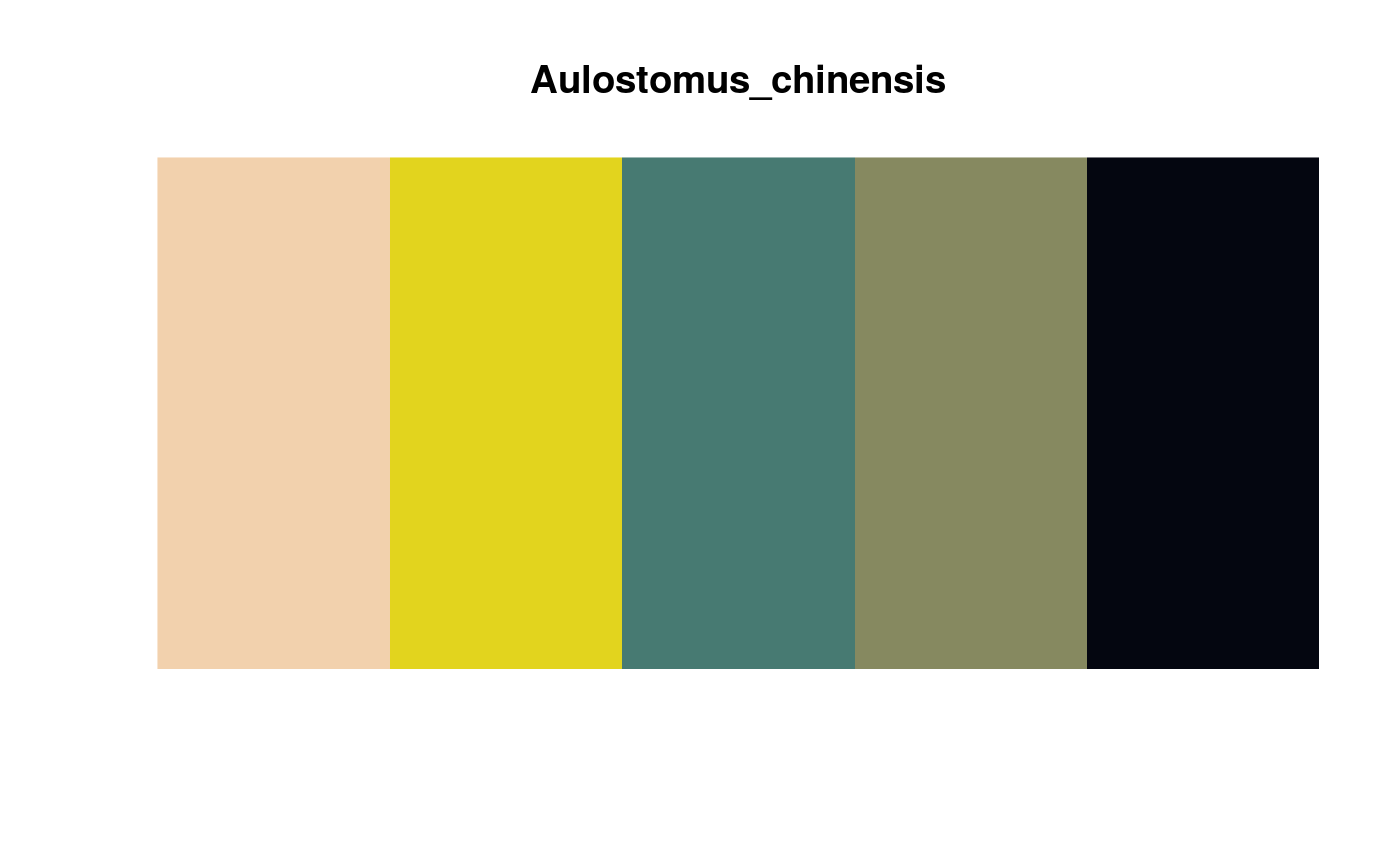
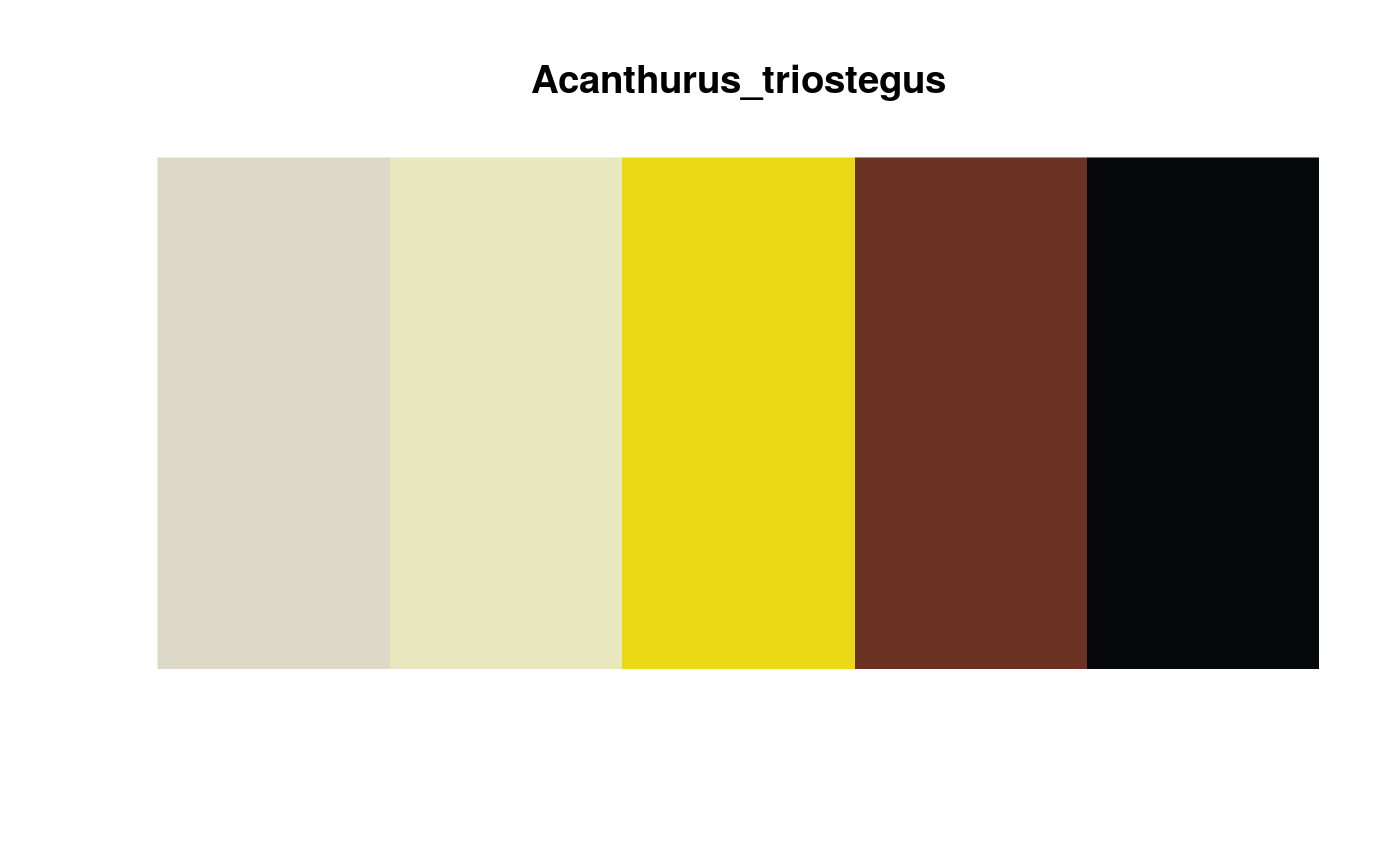
update site

diff --git a/docs/index.html b/docs/index.html
@@ -80,6 +80,8 @@
 
     
     
+
+<p><img src="reference/figures/fishualize_logo.pdf" width="120" alt="fishflux logo"></p>
 <p><code>fishualize</code> allows you to implement the color pattern or your favourite fish for all you graphs.</p>
 <div id="installation" class="section level2">
 <h2 class="hasAnchor">
@@ -91,7 +93,7 @@
 <div id="introduction" class="section level1">
 <div class="page-header"><h1 class="hasAnchor">
 <a href="#introduction" class="anchor"></a>Introduction</h1></div>
-<p>The <a href="http:://github.com/nschiett/fishualize"><strong>fishualize</strong></a> package provides colour scales created by Nina Schiettekatte, Jordan Casey and Simon Brandl.</p>
+<p>The <a href="http:://github.com/nschiett/fishualize"><strong>fishualize</strong></a> package provides colour scales based on the natural colors of fishes.</p>
 </div>
 <div id="the-colour-scales" class="section level1">
 <h1 class="hasAnchor">
@@ -154,57 +156,28 @@
 <a class="sourceLine" id="cb9-12" data-line-number="12">state_df &lt;-<span class="st"> </span><span class="kw"><a href="https://ggplot2.tidyverse.org/reference/map_data.html">map_data</a></span>(<span class="st">"state"</span>, <span class="dt">projection =</span> <span class="st">"albers"</span>, <span class="dt">parameters =</span> <span class="kw"><a href="https://www.rdocumentation.org/packages/base/topics/c">c</a></span>(<span class="dv">39</span>, <span class="dv">45</span>))</a>
 <a class="sourceLine" id="cb9-13" data-line-number="13">choropleth &lt;-<span class="st"> </span><span class="kw"><a href="https://www.rdocumentation.org/packages/base/topics/merge">merge</a></span>(county_df, unemp, <span class="dt">by =</span> <span class="kw"><a href="https://www.rdocumentation.org/packages/base/topics/c">c</a></span>(<span class="st">"state"</span>, <span class="st">"county"</span>))</a>
 <a class="sourceLine" id="cb9-14" data-line-number="14">choropleth &lt;-<span class="st"> </span>choropleth[<span class="kw"><a href="https://www.rdocumentation.org/packages/base/topics/order">order</a></span>(choropleth<span class="op">$</span>order), ]</a>
-<a class="sourceLine" id="cb9-15" data-line-number="15"><span class="kw"><a href="https://ggplot2.tidyverse.org/reference/ggplot.html">ggplot</a></span>(choropleth, <span class="kw"><a href="https://ggplot2.tidyverse.org/reference/aes.html">aes</a></span>(long, lat, <span class="dt">group =</span> group)) <span class="op">+</span></a>
-<a class="sourceLine" id="cb9-16" data-line-number="16"><span class="st">  </span><span class="kw"><a href="https://ggplot2.tidyverse.org/reference/geom_polygon.html">geom_polygon</a></span>(<span class="kw"><a href="https://ggplot2.tidyverse.org/reference/aes.html">aes</a></span>(<span class="dt">fill =</span> rate), <span class="dt">colour =</span> <span class="kw"><a href="https://ggplot2.tidyverse.org/reference/reexports.html">alpha</a></span>(<span class="st">"white"</span>, <span class="dv">1</span> <span class="op">/</span><span class="st"> </span><span class="dv">2</span>), <span class="dt">size =</span> <span class="fl">0.2</span>) <span class="op">+</span></a>
-<a class="sourceLine" id="cb9-17" data-line-number="17"><span class="st">  </span><span class="kw"><a href="https://ggplot2.tidyverse.org/reference/geom_polygon.html">geom_polygon</a></span>(<span class="dt">data =</span> state_df, <span class="dt">colour =</span> <span class="st">"white"</span>, <span class="dt">fill =</span> <span class="ot">NA</span>) <span class="op">+</span></a>
-<a class="sourceLine" id="cb9-18" data-line-number="18"><span class="st">  </span><span class="kw"><a href="https://ggplot2.tidyverse.org/reference/coord_fixed.html">coord_fixed</a></span>() <span class="op">+</span></a>
-<a class="sourceLine" id="cb9-19" data-line-number="19"><span class="st">  </span><span class="kw"><a href="https://ggplot2.tidyverse.org/reference/ggtheme.html">theme_minimal</a></span>() <span class="op">+</span></a>
-<a class="sourceLine" id="cb9-20" data-line-number="20"><span class="st">  </span><span class="kw"><a href="https://ggplot2.tidyverse.org/reference/labs.html">ggtitle</a></span>(<span class="st">"US unemployment rate by county"</span>) <span class="op">+</span></a>
-<a class="sourceLine" id="cb9-21" data-line-number="21"><span class="st">  </span><span class="kw"><a href="https://ggplot2.tidyverse.org/reference/theme.html">theme</a></span>(<span class="dt">axis.line =</span> <span class="kw"><a href="https://ggplot2.tidyverse.org/reference/element.html">element_blank</a></span>(), <span class="dt">axis.text =</span> <span class="kw"><a href="https://ggplot2.tidyverse.org/reference/element.html">element_blank</a></span>(),</a>
-<a class="sourceLine" id="cb9-22" data-line-number="22">        <span class="dt">axis.ticks =</span> <span class="kw"><a href="https://ggplot2.tidyverse.org/reference/element.html">element_blank</a></span>(), <span class="dt">axis.title =</span> <span class="kw"><a href="https://ggplot2.tidyverse.org/reference/element.html">element_blank</a></span>()) <span class="op">+</span></a>
-<a class="sourceLine" id="cb9-23" data-line-number="23"><span class="st">  </span><span class="kw"><a href="reference/scale_fish.html">scale_fill_fish</a></span>(<span class="dt">option=</span><span class="st">"Ostracion_cubicus"</span>)</a></code></pre></div>
+<a class="sourceLine" id="cb9-15" data-line-number="15"></a>
+<a class="sourceLine" id="cb9-16" data-line-number="16"><span class="kw"><a href="https://ggplot2.tidyverse.org/reference/ggplot.html">ggplot</a></span>(choropleth, <span class="kw"><a href="https://ggplot2.tidyverse.org/reference/aes.html">aes</a></span>(long, lat, <span class="dt">group =</span> group)) <span class="op">+</span></a>
+<a class="sourceLine" id="cb9-17" data-line-number="17"><span class="st">  </span><span class="kw"><a href="https://ggplot2.tidyverse.org/reference/geom_polygon.html">geom_polygon</a></span>(<span class="kw"><a href="https://ggplot2.tidyverse.org/reference/aes.html">aes</a></span>(<span class="dt">fill =</span> rate), <span class="dt">colour =</span> <span class="kw"><a href="https://ggplot2.tidyverse.org/reference/reexports.html">alpha</a></span>(<span class="st">"white"</span>, <span class="dv">1</span> <span class="op">/</span><span class="st"> </span><span class="dv">2</span>), <span class="dt">size =</span> <span class="fl">0.2</span>) <span class="op">+</span></a>
+<a class="sourceLine" id="cb9-18" data-line-number="18"><span class="st">  </span><span class="kw"><a href="https://ggplot2.tidyverse.org/reference/geom_polygon.html">geom_polygon</a></span>(<span class="dt">data =</span> state_df, <span class="dt">colour =</span> <span class="st">"white"</span>, <span class="dt">fill =</span> <span class="ot">NA</span>) <span class="op">+</span></a>
+<a class="sourceLine" id="cb9-19" data-line-number="19"><span class="st">  </span><span class="kw"><a href="https://ggplot2.tidyverse.org/reference/coord_fixed.html">coord_fixed</a></span>() <span class="op">+</span></a>
+<a class="sourceLine" id="cb9-20" data-line-number="20"><span class="st">  </span><span class="kw"><a href="https://ggplot2.tidyverse.org/reference/ggtheme.html">theme_minimal</a></span>() <span class="op">+</span></a>
+<a class="sourceLine" id="cb9-21" data-line-number="21"><span class="st">  </span><span class="kw"><a href="https://ggplot2.tidyverse.org/reference/labs.html">ggtitle</a></span>(<span class="st">"US unemployment rate by county"</span>) <span class="op">+</span></a>
+<a class="sourceLine" id="cb9-22" data-line-number="22"><span class="st">  </span><span class="kw"><a href="https://ggplot2.tidyverse.org/reference/theme.html">theme</a></span>(<span class="dt">axis.line =</span> <span class="kw"><a href="https://ggplot2.tidyverse.org/reference/element.html">element_blank</a></span>(), <span class="dt">axis.text =</span> <span class="kw"><a href="https://ggplot2.tidyverse.org/reference/element.html">element_blank</a></span>(),</a>
+<a class="sourceLine" id="cb9-23" data-line-number="23">        <span class="dt">axis.ticks =</span> <span class="kw"><a href="https://ggplot2.tidyverse.org/reference/element.html">element_blank</a></span>(), <span class="dt">axis.title =</span> <span class="kw"><a href="https://ggplot2.tidyverse.org/reference/element.html">element_blank</a></span>()) <span class="op">+</span></a>
+<a class="sourceLine" id="cb9-24" data-line-number="24"><span class="st">  </span><span class="kw"><a href="reference/scale_fish.html">scale_fill_fish</a></span>(<span class="dt">option =</span> <span class="st">"Zebrasoma_velifer"</span>)</a></code></pre></div>
 <p><img src="index_files/figure-html/ggplot2-1.png" width="672"></p>
-<div class="sourceCode" id="cb10"><pre class="sourceCode r"><code class="sourceCode r"><a class="sourceLine" id="cb10-1" data-line-number="1"><span class="kw"><a href="https://ggplot2.tidyverse.org/reference/ggplot.html">ggplot</a></span>(choropleth, <span class="kw"><a href="https://ggplot2.tidyverse.org/reference/aes.html">aes</a></span>(long, lat, <span class="dt">group =</span> group)) <span class="op">+</span></a>
-<a class="sourceLine" id="cb10-2" data-line-number="2"><span class="st">  </span><span class="kw"><a href="https://ggplot2.tidyverse.org/reference/geom_polygon.html">geom_polygon</a></span>(<span class="kw"><a href="https://ggplot2.tidyverse.org/reference/aes.html">aes</a></span>(<span class="dt">fill =</span> rate), <span class="dt">colour =</span> <span class="kw"><a href="https://ggplot2.tidyverse.org/reference/reexports.html">alpha</a></span>(<span class="st">"white"</span>, <span class="dv">1</span> <span class="op">/</span><span class="st"> </span><span class="dv">2</span>), <span class="dt">size =</span> <span class="fl">0.2</span>) <span class="op">+</span></a>
-<a class="sourceLine" id="cb10-3" data-line-number="3"><span class="st">  </span><span class="kw"><a href="https://ggplot2.tidyverse.org/reference/geom_polygon.html">geom_polygon</a></span>(<span class="dt">data =</span> state_df, <span class="dt">colour =</span> <span class="st">"white"</span>, <span class="dt">fill =</span> <span class="ot">NA</span>) <span class="op">+</span></a>
-<a class="sourceLine" id="cb10-4" data-line-number="4"><span class="st">  </span><span class="kw"><a href="https://ggplot2.tidyverse.org/reference/coord_fixed.html">coord_fixed</a></span>() <span class="op">+</span></a>
-<a class="sourceLine" id="cb10-5" data-line-number="5"><span class="st">  </span><span class="kw"><a href="https://ggplot2.tidyverse.org/reference/ggtheme.html">theme_minimal</a></span>() <span class="op">+</span></a>
-<a class="sourceLine" id="cb10-6" data-line-number="6"><span class="st">  </span><span class="kw"><a href="https://ggplot2.tidyverse.org/reference/labs.html">ggtitle</a></span>(<span class="st">"US unemployment rate by county"</span>) <span class="op">+</span></a>
-<a class="sourceLine" id="cb10-7" data-line-number="7"><span class="st">  </span><span class="kw"><a href="https://ggplot2.tidyverse.org/reference/theme.html">theme</a></span>(<span class="dt">axis.line =</span> <span class="kw"><a href="https://ggplot2.tidyverse.org/reference/element.html">element_blank</a></span>(), <span class="dt">axis.text =</span> <span class="kw"><a href="https://ggplot2.tidyverse.org/reference/element.html">element_blank</a></span>(),</a>
-<a class="sourceLine" id="cb10-8" data-line-number="8">        <span class="dt">axis.ticks =</span> <span class="kw"><a href="https://ggplot2.tidyverse.org/reference/element.html">element_blank</a></span>(), <span class="dt">axis.title =</span> <span class="kw"><a href="https://ggplot2.tidyverse.org/reference/element.html">element_blank</a></span>()) <span class="op">+</span></a>
-<a class="sourceLine" id="cb10-9" data-line-number="9"><span class="st">  </span><span class="kw"><a href="reference/scale_fish.html">scale_fill_fish</a></span>(<span class="dt">option =</span> <span class="st">"Trimma_lantana"</span>)</a></code></pre></div>
-<p><img src="index_files/figure-html/ggplot2-2.png" width="672"></p>
-<div class="sourceCode" id="cb11"><pre class="sourceCode r"><code class="sourceCode r"><a class="sourceLine" id="cb11-1" data-line-number="1"><span class="kw"><a href="https://ggplot2.tidyverse.org/reference/ggplot.html">ggplot</a></span>(choropleth, <span class="kw"><a href="https://ggplot2.tidyverse.org/reference/aes.html">aes</a></span>(long, lat, <span class="dt">group =</span> group)) <span class="op">+</span></a>
-<a class="sourceLine" id="cb11-2" data-line-number="2"><span class="st">  </span><span class="kw"><a href="https://ggplot2.tidyverse.org/reference/geom_polygon.html">geom_polygon</a></span>(<span class="kw"><a href="https://ggplot2.tidyverse.org/reference/aes.html">aes</a></span>(<span class="dt">fill =</span> rate), <span class="dt">colour =</span> <span class="kw"><a href="https://ggplot2.tidyverse.org/reference/reexports.html">alpha</a></span>(<span class="st">"white"</span>, <span class="dv">1</span> <span class="op">/</span><span class="st"> </span><span class="dv">2</span>), <span class="dt">size =</span> <span class="fl">0.2</span>) <span class="op">+</span></a>
-<a class="sourceLine" id="cb11-3" data-line-number="3"><span class="st">  </span><span class="kw"><a href="https://ggplot2.tidyverse.org/reference/geom_polygon.html">geom_polygon</a></span>(<span class="dt">data =</span> state_df, <span class="dt">colour =</span> <span class="st">"white"</span>, <span class="dt">fill =</span> <span class="ot">NA</span>) <span class="op">+</span></a>
-<a class="sourceLine" id="cb11-4" data-line-number="4"><span class="st">  </span><span class="kw"><a href="https://ggplot2.tidyverse.org/reference/coord_fixed.html">coord_fixed</a></span>() <span class="op">+</span></a>
-<a class="sourceLine" id="cb11-5" data-line-number="5"><span class="st">  </span><span class="kw"><a href="https://ggplot2.tidyverse.org/reference/ggtheme.html">theme_minimal</a></span>() <span class="op">+</span></a>
-<a class="sourceLine" id="cb11-6" data-line-number="6"><span class="st">  </span><span class="kw"><a href="https://ggplot2.tidyverse.org/reference/labs.html">ggtitle</a></span>(<span class="st">"US unemployment rate by county"</span>) <span class="op">+</span></a>
-<a class="sourceLine" id="cb11-7" data-line-number="7"><span class="st">  </span><span class="kw"><a href="https://ggplot2.tidyverse.org/reference/theme.html">theme</a></span>(<span class="dt">axis.line =</span> <span class="kw"><a href="https://ggplot2.tidyverse.org/reference/element.html">element_blank</a></span>(), <span class="dt">axis.text =</span> <span class="kw"><a href="https://ggplot2.tidyverse.org/reference/element.html">element_blank</a></span>(),</a>
-<a class="sourceLine" id="cb11-8" data-line-number="8">        <span class="dt">axis.ticks =</span> <span class="kw"><a href="https://ggplot2.tidyverse.org/reference/element.html">element_blank</a></span>(), <span class="dt">axis.title =</span> <span class="kw"><a href="https://ggplot2.tidyverse.org/reference/element.html">element_blank</a></span>()) <span class="op">+</span></a>
-<a class="sourceLine" id="cb11-9" data-line-number="9"><span class="st">  </span><span class="kw"><a href="reference/scale_fish.html">scale_fill_fish</a></span>(<span class="dt">option =</span> <span class="st">"Zebrasoma_velifer"</span>)</a></code></pre></div>
-<p><img src="index_files/figure-html/ggplot2-3.png" width="672"></p>
-<div class="sourceCode" id="cb12"><pre class="sourceCode r"><code class="sourceCode r"><a class="sourceLine" id="cb12-1" data-line-number="1"><span class="kw"><a href="https://ggplot2.tidyverse.org/reference/ggplot.html">ggplot</a></span>(choropleth, <span class="kw"><a href="https://ggplot2.tidyverse.org/reference/aes.html">aes</a></span>(long, lat, <span class="dt">group =</span> group)) <span class="op">+</span></a>
-<a class="sourceLine" id="cb12-2" data-line-number="2"><span class="st">  </span><span class="kw"><a href="https://ggplot2.tidyverse.org/reference/geom_polygon.html">geom_polygon</a></span>(<span class="kw"><a href="https://ggplot2.tidyverse.org/reference/aes.html">aes</a></span>(<span class="dt">fill =</span> rate), <span class="dt">colour =</span> <span class="kw"><a href="https://ggplot2.tidyverse.org/reference/reexports.html">alpha</a></span>(<span class="st">"white"</span>, <span class="dv">1</span> <span class="op">/</span><span class="st"> </span><span class="dv">2</span>), <span class="dt">size =</span> <span class="fl">0.2</span>) <span class="op">+</span></a>
-<a class="sourceLine" id="cb12-3" data-line-number="3"><span class="st">  </span><span class="kw"><a href="https://ggplot2.tidyverse.org/reference/geom_polygon.html">geom_polygon</a></span>(<span class="dt">data =</span> state_df, <span class="dt">colour =</span> <span class="st">"white"</span>, <span class="dt">fill =</span> <span class="ot">NA</span>) <span class="op">+</span></a>
-<a class="sourceLine" id="cb12-4" data-line-number="4"><span class="st">  </span><span class="kw"><a href="https://ggplot2.tidyverse.org/reference/coord_fixed.html">coord_fixed</a></span>() <span class="op">+</span></a>
-<a class="sourceLine" id="cb12-5" data-line-number="5"><span class="st">  </span><span class="kw"><a href="https://ggplot2.tidyverse.org/reference/ggtheme.html">theme_minimal</a></span>() <span class="op">+</span></a>
-<a class="sourceLine" id="cb12-6" data-line-number="6"><span class="st">  </span><span class="kw"><a href="https://ggplot2.tidyverse.org/reference/labs.html">ggtitle</a></span>(<span class="st">"US unemployment rate by county"</span>) <span class="op">+</span></a>
-<a class="sourceLine" id="cb12-7" data-line-number="7"><span class="st">  </span><span class="kw"><a href="https://ggplot2.tidyverse.org/reference/theme.html">theme</a></span>(<span class="dt">axis.line =</span> <span class="kw"><a href="https://ggplot2.tidyverse.org/reference/element.html">element_blank</a></span>(), <span class="dt">axis.text =</span> <span class="kw"><a href="https://ggplot2.tidyverse.org/reference/element.html">element_blank</a></span>(),</a>
-<a class="sourceLine" id="cb12-8" data-line-number="8">        <span class="dt">axis.ticks =</span> <span class="kw"><a href="https://ggplot2.tidyverse.org/reference/element.html">element_blank</a></span>(), <span class="dt">axis.title =</span> <span class="kw"><a href="https://ggplot2.tidyverse.org/reference/element.html">element_blank</a></span>()) <span class="op">+</span></a>
-<a class="sourceLine" id="cb12-9" data-line-number="9"><span class="st">  </span><span class="kw"><a href="reference/scale_fish.html">scale_fill_fish</a></span>(<span class="dt">option =</span> <span class="st">"Chlorurus_microrhinos"</span>)</a></code></pre></div>
-<p><img src="index_files/figure-html/ggplot2-4.png" width="672"></p>
 <p>The ggplot functions also can be used for discrete scales with the argument <code>discrete=TRUE</code>.</p>
-<div class="sourceCode" id="cb13"><pre class="sourceCode r"><code class="sourceCode r"><a class="sourceLine" id="cb13-1" data-line-number="1">p &lt;-<span class="st"> </span><span class="kw"><a href="https://ggplot2.tidyverse.org/reference/ggplot.html">ggplot</a></span>(mtcars, <span class="kw"><a href="https://ggplot2.tidyverse.org/reference/aes.html">aes</a></span>(wt, mpg))</a>
-<a class="sourceLine" id="cb13-2" data-line-number="2">p <span class="op">+</span><span class="st"> </span><span class="kw"><a href="https://ggplot2.tidyverse.org/reference/geom_point.html">geom_point</a></span>(<span class="dt">size=</span><span class="dv">4</span>, <span class="kw"><a href="https://ggplot2.tidyverse.org/reference/aes.html">aes</a></span>(<span class="dt">colour =</span> <span class="kw"><a href="https://www.rdocumentation.org/packages/base/topics/factor">factor</a></span>(carb))) <span class="op">+</span></a>
-<a class="sourceLine" id="cb13-3" data-line-number="3"><span class="st">    </span><span class="kw"><a href="reference/scale_fish.html">scale_color_fish</a></span>(<span class="dt">discrete=</span><span class="ot">TRUE</span>, <span class="dt">option =</span> <span class="st">"Thalassoma_hardwicke"</span>) <span class="op">+</span></a>
-<a class="sourceLine" id="cb13-4" data-line-number="4"><span class="st">    </span><span class="kw"><a href="https://ggplot2.tidyverse.org/reference/ggtheme.html">theme_bw</a></span>()</a></code></pre></div>
+<div class="sourceCode" id="cb10"><pre class="sourceCode r"><code class="sourceCode r"><a class="sourceLine" id="cb10-1" data-line-number="1">p &lt;-<span class="st"> </span><span class="kw"><a href="https://ggplot2.tidyverse.org/reference/ggplot.html">ggplot</a></span>(mtcars, <span class="kw"><a href="https://ggplot2.tidyverse.org/reference/aes.html">aes</a></span>(wt, mpg))</a>
+<a class="sourceLine" id="cb10-2" data-line-number="2">p <span class="op">+</span><span class="st"> </span><span class="kw"><a href="https://ggplot2.tidyverse.org/reference/geom_point.html">geom_point</a></span>(<span class="dt">size=</span><span class="dv">4</span>, <span class="kw"><a href="https://ggplot2.tidyverse.org/reference/aes.html">aes</a></span>(<span class="dt">colour =</span> <span class="kw"><a href="https://www.rdocumentation.org/packages/base/topics/factor">factor</a></span>(carb))) <span class="op">+</span></a>
+<a class="sourceLine" id="cb10-3" data-line-number="3"><span class="st">    </span><span class="kw"><a href="reference/scale_fish.html">scale_color_fish</a></span>(<span class="dt">discrete=</span><span class="ot">TRUE</span>, <span class="dt">option =</span> <span class="st">"Thalassoma_hardwicke"</span>) <span class="op">+</span></a>
+<a class="sourceLine" id="cb10-4" data-line-number="4"><span class="st">    </span><span class="kw"><a href="https://ggplot2.tidyverse.org/reference/ggtheme.html">theme_bw</a></span>()</a></code></pre></div>
 <p><img src="index_files/figure-html/discrete-1.png" width="672"></p>
 </div>
 <div id="credits" class="section level2">
 <h2 class="hasAnchor">
 <a href="#credits" class="anchor"></a>Credits</h2>
-<p>All credits for the structure of this package go to the <code>harrypotter</code> package made by Alejandro Jiménez: <a href="https://github.com/aljrico/harrypotter" class="uri">https://github.com/aljrico/harrypotter</a></p>
+<p>All credits for the initial structure of the functions for this package go to the <code>harrypotter</code> package made by Alejandro Jiménez: <a href="https://github.com/aljrico/harrypotter" class="uri">https://github.com/aljrico/harrypotter</a></p>
 </div>
 </div>
   </div>
@@ -222,23 +195,31 @@
 <div class="license">
 <h2>License</h2>
 <ul class="list-unstyled">
-<li>What license is it under?</li>
+<li><a href="https://www.r-project.org/Licenses/GPL-2">GPL-2</a></li>
 </ul>
 </div>
 <div class="developers">
 <h2>Developers</h2>
 <ul class="list-unstyled">
 <li>Nina Schiettekatte <br><small class="roles"> Maintainer </small>  </li>
+<li>Brandl Simon <br><small class="roles"> Author </small>  </li>
+<li>Casey Jordan <br><small class="roles"> Author </small>  </li>
 </ul>
 </div>
 
-      </div>
+      <div class="dev-status">
+<h2>Dev status</h2>
+<ul class="list-unstyled">
+<li><a href="https://travis-ci.org/nschiett/fishualize"><img src="https://api.travis-ci.org/nschiett/fishualize.png?branch=master" alt="Build Status"></a></li>
+</ul>
+</div>
+</div>
 
 </div>
 
 
       <footer><div class="copyright">
-  <p>Developed by Nina Schiettekatte.</p>
+  <p>Developed by Nina Schiettekatte, Brandl Simon, Casey Jordan.</p>
 </div>
 
 <div class="pkgdown">

diff --git a/docs/articles/overview_colors.html b/docs/articles/overview_colors.html
@@ -79,7 +79,7 @@
     <div class="page-header toc-ignore">
       <h1>Overview fishualize palettes</h1>
             
-            <h4 class="date">2019-09-08</h4>
+            <h4 class="date">2019-09-26</h4>
       
       <small class="dont-index">Source: <a href="https://github.com/nschiett/fishualize/blob/master/vignettes/overview_colors.Rmd"><code>vignettes/overview_colors.Rmd</code></a></small>
       <div class="hidden name"><code>overview_colors.Rmd</code></div>
@@ -88,7 +88,7 @@
 
     
     
-<p><img src="overview_colors_files/figure-html/unnamed-chunk-2-1.png" width="700"><img src="overview_colors_files/figure-html/unnamed-chunk-2-2.png" width="700"><img src="overview_colors_files/figure-html/unnamed-chunk-2-3.png" width="700"><img src="overview_colors_files/figure-html/unnamed-chunk-2-4.png" width="700"><img src="overview_colors_files/figure-html/unnamed-chunk-2-5.png" width="700"><img src="overview_colors_files/figure-html/unnamed-chunk-2-6.png" width="700"><img src="overview_colors_files/figure-html/unnamed-chunk-2-7.png" width="700"><img src="overview_colors_files/figure-html/unnamed-chunk-2-8.png" width="700"><img src="overview_colors_files/figure-html/unnamed-chunk-2-9.png" width="700"><img src="overview_colors_files/figure-html/unnamed-chunk-2-10.png" width="700"><img src="overview_colors_files/figure-html/unnamed-chunk-2-11.png" width="700"><img src="overview_colors_files/figure-html/unnamed-chunk-2-12.png" width="700"><img src="overview_colors_files/figure-html/unnamed-chunk-2-13.png" width="700"><img src="overview_colors_files/figure-html/unnamed-chunk-2-14.png" width="700"><img src="overview_colors_files/figure-html/unnamed-chunk-2-15.png" width="700"><img src="overview_colors_files/figure-html/unnamed-chunk-2-16.png" width="700"><img src="overview_colors_files/figure-html/unnamed-chunk-2-17.png" width="700"><img src="overview_colors_files/figure-html/unnamed-chunk-2-18.png" width="700"><img src="overview_colors_files/figure-html/unnamed-chunk-2-19.png" width="700"><img src="overview_colors_files/figure-html/unnamed-chunk-2-20.png" width="700"><img src="overview_colors_files/figure-html/unnamed-chunk-2-21.png" width="700"><img src="overview_colors_files/figure-html/unnamed-chunk-2-22.png" width="700"><img src="overview_colors_files/figure-html/unnamed-chunk-2-23.png" width="700"><img src="overview_colors_files/figure-html/unnamed-chunk-2-24.png" width="700"></p>
+<p><img src="overview_colors_files/figure-html/unnamed-chunk-2-1.png" width="700"><img src="overview_colors_files/figure-html/unnamed-chunk-2-2.png" width="700"><img src="overview_colors_files/figure-html/unnamed-chunk-2-3.png" width="700"><img src="overview_colors_files/figure-html/unnamed-chunk-2-4.png" width="700"><img src="overview_colors_files/figure-html/unnamed-chunk-2-5.png" width="700"><img src="overview_colors_files/figure-html/unnamed-chunk-2-6.png" width="700"><img src="overview_colors_files/figure-html/unnamed-chunk-2-7.png" width="700"><img src="overview_colors_files/figure-html/unnamed-chunk-2-8.png" width="700"><img src="overview_colors_files/figure-html/unnamed-chunk-2-9.png" width="700"><img src="overview_colors_files/figure-html/unnamed-chunk-2-10.png" width="700"><img src="overview_colors_files/figure-html/unnamed-chunk-2-11.png" width="700"><img src="overview_colors_files/figure-html/unnamed-chunk-2-12.png" width="700"><img src="overview_colors_files/figure-html/unnamed-chunk-2-13.png" width="700"><img src="overview_colors_files/figure-html/unnamed-chunk-2-14.png" width="700"><img src="overview_colors_files/figure-html/unnamed-chunk-2-15.png" width="700"><img src="overview_colors_files/figure-html/unnamed-chunk-2-16.png" width="700"><img src="overview_colors_files/figure-html/unnamed-chunk-2-17.png" width="700"><img src="overview_colors_files/figure-html/unnamed-chunk-2-18.png" width="700"><img src="overview_colors_files/figure-html/unnamed-chunk-2-19.png" width="700"><img src="overview_colors_files/figure-html/unnamed-chunk-2-20.png" width="700"><img src="overview_colors_files/figure-html/unnamed-chunk-2-21.png" width="700"><img src="overview_colors_files/figure-html/unnamed-chunk-2-22.png" width="700"><img src="overview_colors_files/figure-html/unnamed-chunk-2-23.png" width="700"><img src="overview_colors_files/figure-html/unnamed-chunk-2-24.png" width="700"><img src="overview_colors_files/figure-html/unnamed-chunk-2-25.png" width="700"><img src="overview_colors_files/figure-html/unnamed-chunk-2-26.png" width="700"></p>
   </div>
 
   <div class="col-md-3 hidden-xs hidden-sm" id="sidebar">
@@ -98,7 +98,7 @@
 
 
       <footer><div class="copyright">
-  <p>Developed by Nina Schiettekatte.</p>
+  <p>Developed by Nina Schiettekatte, Brandl Simon, Casey Jordan.</p>
 </div>
 
 <div class="pkgdown">

diff --git a/docs/reference/fish_palettes.html b/docs/reference/fish_palettes.html
@@ -142,7 +142,8 @@
 #&gt; [19] Melichthys_vidua            Epinephelus_fasciatus      
 #&gt; [21] Ostorhinchus_angustatus     Valenciennea_strigata      
 #&gt; [23] Stegastes_nigricans         Pseudocheilinus_tetrataenia
-#&gt; 24 Levels: Aulostomus_chinensis Balistapus_undulatus ... Zebrasoma_velifer</div><div class='input'>
+#&gt; [25] Acanthurus_triostegus       Exallias_brevis            
+#&gt; 26 Levels: Acanthurus_triostegus Aulostomus_chinensis ... Zebrasoma_velifer</div><div class='input'>
 </div></pre>
   </div>
   <div class="col-md-3 hidden-xs hidden-sm" id="sidebar">
@@ -159,7 +160,7 @@
 
       <footer>
       <div class="copyright">
-  <p>Developed by Nina Schiettekatte.</p>
+  <p>Developed by Nina Schiettekatte, Brandl Simon, Casey Jordan.</p>
 </div>
 
 <div class="pkgdown">

diff --git a/docs/authors.html b/docs/authors.html
@@ -116,6 +116,14 @@
         <p><strong>Nina Schiettekatte</strong>. Maintainer. 
         </p>
       </li>
+      <li>
+        <p><strong>Brandl Simon</strong>. Author. 
+        </p>
+      </li>
+      <li>
+        <p><strong>Casey Jordan</strong>. Author. 
+        </p>
+      </li>
     </ul>
 
   </div>
@@ -125,7 +133,7 @@
 
       <footer>
       <div class="copyright">
-  <p>Developed by Nina Schiettekatte.</p>
+  <p>Developed by Nina Schiettekatte, Brandl Simon, Casey Jordan.</p>
 </div>
 
 <div class="pkgdown">

diff --git a/docs/reference/fish.html b/docs/reference/fish.html
@@ -201,7 +201,7 @@ devices: see <code><a href='https://www.rdocumentation.org/packages/grDevices/to
 
       <footer>
       <div class="copyright">
-  <p>Developed by Nina Schiettekatte.</p>
+  <p>Developed by Nina Schiettekatte, Brandl Simon, Casey Jordan.</p>
 </div>
 
 <div class="pkgdown">

diff --git a/docs/reference/scale_fish.html b/docs/reference/scale_fish.html
@@ -216,7 +216,7 @@ number of colors.</p>
 
       <footer>
       <div class="copyright">
-  <p>Developed by Nina Schiettekatte.</p>
+  <p>Developed by Nina Schiettekatte, Brandl Simon, Casey Jordan.</p>
 </div>
 
 <div class="pkgdown">

diff --git a/docs/articles/index.html b/docs/articles/index.html
@@ -124,7 +124,7 @@
 
       <footer>
       <div class="copyright">
-  <p>Developed by Nina Schiettekatte.</p>
+  <p>Developed by Nina Schiettekatte, Brandl Simon, Casey Jordan.</p>
 </div>
 
 <div class="pkgdown">

diff --git a/docs/reference/fishcolors.html b/docs/reference/fishcolors.html
@@ -145,7 +145,7 @@
 
       <footer>
       <div class="copyright">
-  <p>Developed by Nina Schiettekatte.</p>
+  <p>Developed by Nina Schiettekatte, Brandl Simon, Casey Jordan.</p>
 </div>
 
 <div class="pkgdown">

diff --git a/docs/reference/index.html b/docs/reference/index.html
@@ -165,7 +165,7 @@
 
       <footer>
       <div class="copyright">
-  <p>Developed by Nina Schiettekatte.</p>
+  <p>Developed by Nina Schiettekatte, Brandl Simon, Casey Jordan.</p>
 </div>
 
 <div class="pkgdown">
